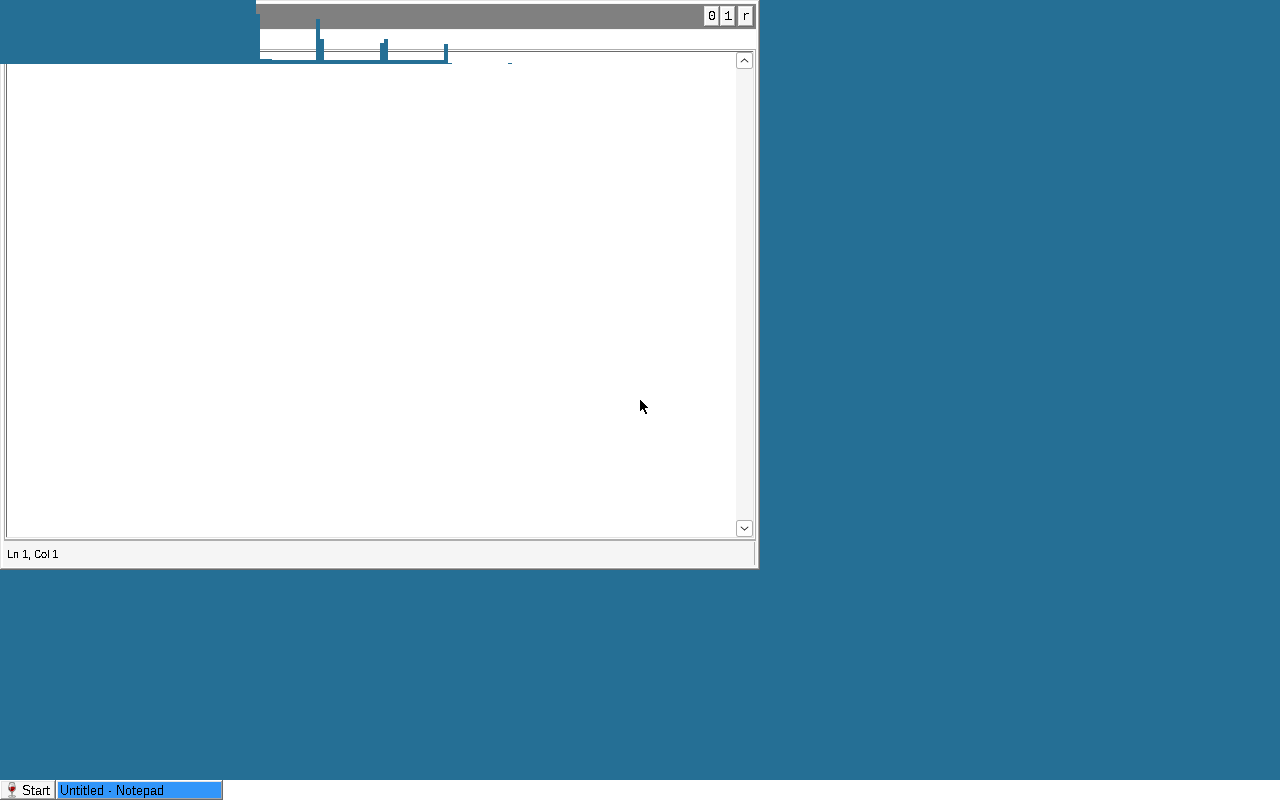
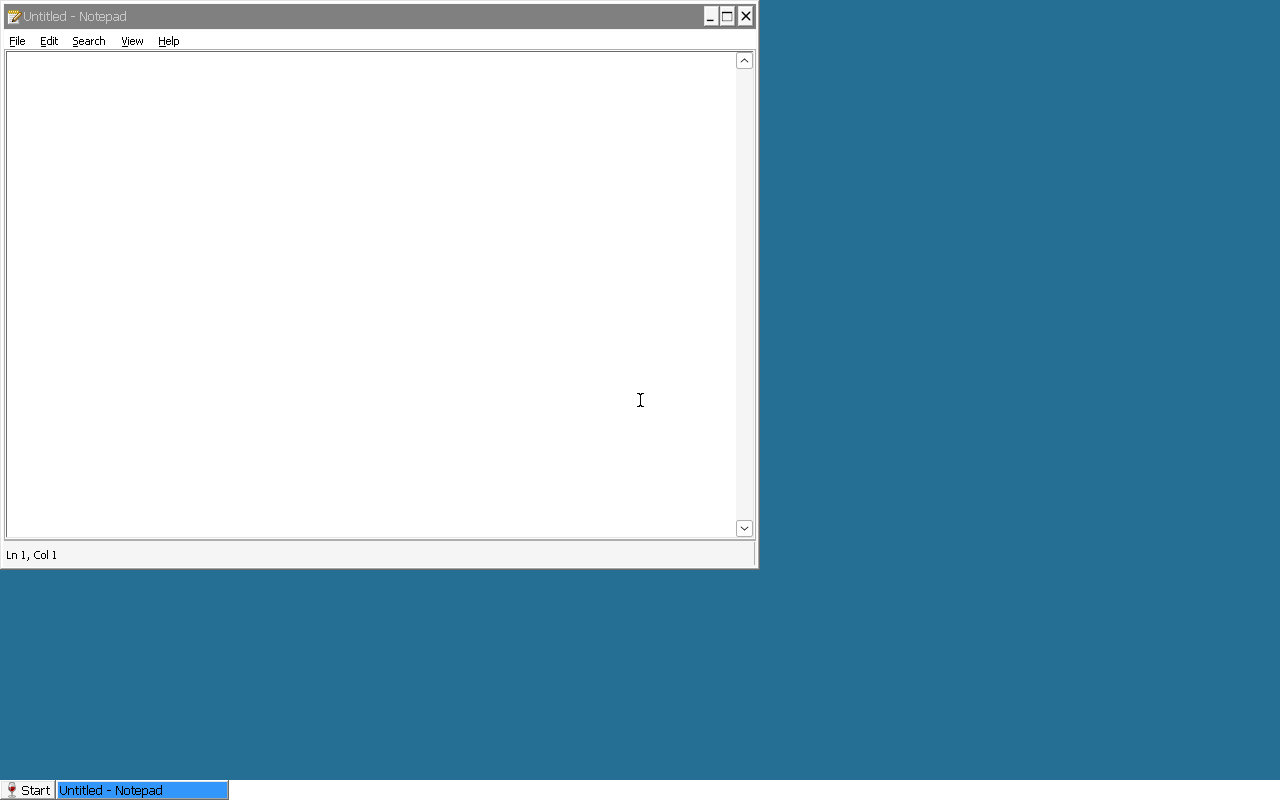
docs: the image runs on wine-sg; 32-bit works end to end
The boot gate screenshot is now a 32-bit Notepad, launched from
syswow64, running in the Wine shell with a taskbar entry, on an image
with no i386 multiarch anywhere.

Records two consequences of the switch that were not anticipated. It made
the image smaller -- 454M for both architectures against Debian's 717M
plus 601M, because Debian does not strip its Wine and we do. And DXVK had
to come out: Debian's dxvk-wine64 ships .dll.so ELF builtins whose 32-bit
half would need exactly the multiarch we removed, so the fix is upstream
DXVK's PE DLLs installed into the prefix, which is follow-up work.

The Phase 0 report is annotated rather than rewritten. Its WoW64
conclusion was true of packaged Wine, and is what led to building ours.

Claude-Session: https://claude.ai/code/session_01XZFS4SPPzeH5d2c1MuzqCS

diff --git a/docs/decisions/0005-building-wine-ourselves.md b/docs/decisions/0005-building-wine-ourselves.md
@@ -105,9 +105,18 @@ different artifacts, which ADR 0001 treated as a mostly-theoretical distinction.
 - **32-bit Windows applications now run on a pure amd64 image.** The most
   serious limitation recorded in ADR 0002 is lifted, and i386 multiarch is
   permanently off the table.
-- `sg-image` gains a choice of Wine. Integrating `wine-sg` into the image is
-  follow-up work; the Phase 0 gate still passes on Debian's Wine, and switching
-  is a deliberate step with its own gate, not a silent swap.
+- **`sg-image` now ships `wine-sg`** (done, 2026-09-21). Debian's Wine is out of
+  the image entirely, and the boot gate proves 32-bit end to end: it launches
+  `syswow64\notepad.exe` and requires it to appear *inside* the shell, then
+  screenshots a live window.
+- **It made the image smaller**, which was not expected. `wine-sg` is 454 MB for
+  both architectures; Debian needs 717 MB (amd64) plus 601 MB (i386) for the same
+  coverage, because Debian does not strip its Wine and we do.
+- **DXVK had to come out of the image.** Debian's `dxvk-wine64` ships `.dll.so`
+  ELF builtins laid out for Debian's Wine directory; under new WoW64 the 32-bit
+  half would need exactly the i386 multiarch we removed. Upstream DXVK ships PE
+  DLLs, which are the right shape and belong in the prefix. Follow-up, tracked
+  with VKD3D-Proton on issue #6.
 - **We now own a Wine build**, with what that implies: tracking upstream
   releases, re-checking patches on each bump, and a winetest baseline in
   `sg-testlab` tied to the exact build.

diff --git a/README.md b/README.md
@@ -35,10 +35,12 @@ records. No code ships from here.
 - [`docs/s2-wineserver-analysis.md`](docs/s2-wineserver-analysis.md) — whether a
   machine-level wineserver is patchable or a rewrite. **It is a patch set.**
 
-**32-bit Windows applications now run on a pure amd64 image**, via
-[`wine-sg`](https://github.com/Stained-Glass-OS/wine-sg) built with
-`--enable-archs=i386,x86_64`. No i386 multiarch, measured from the live
-process. See [ADR 0005](docs/decisions/0005-building-wine-ourselves.md).
+**32-bit Windows applications run on a pure amd64 image.** The image ships
+[`wine-sg`](https://github.com/Stained-Glass-OS/wine-sg), built with
+`--enable-archs=i386,x86_64` — no i386 multiarch anywhere. The boot gate proves
+it end to end by launching `syswow64\notepad.exe` into the shell, and the
+screenshot above is that 32-bit Notepad. See
+[ADR 0005](docs/decisions/0005-building-wine-ourselves.md).
 
 ## Repo map
 

diff --git a/docs/phase0-report.md b/docs/phase0-report.md
@@ -1,7 +1,12 @@
 # Phase 0 report
 
 **Date:** 2026-09-21
-**Status:** complete. `make image && make boot-test` passes.
+**Status:** complete, and since superseded in one respect — the image now ships
+`wine-sg` rather than Debian's Wine, so **32-bit Windows applications run**.
+See [ADR 0005](decisions/0005-building-wine-ourselves.md). The report below is
+otherwise as written at the end of Phase 0; the WoW64 section's conclusion
+("the answer is no") was true of *packaged* Wine and is what led to building
+our own.
 
 The brief asks for a report at the end of Phase 0 covering what worked, the
 X11-vs-Wayland finding, the Wine build choice, and the multi-user debt list.
